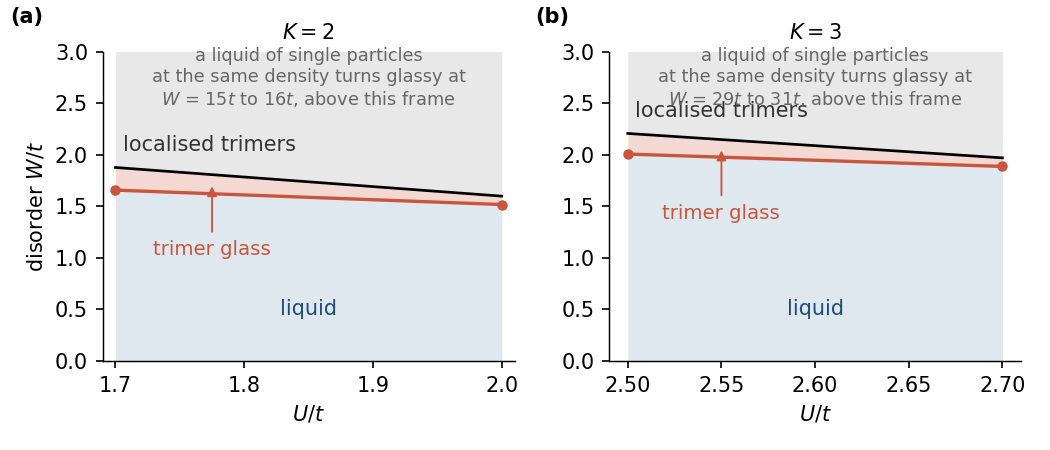
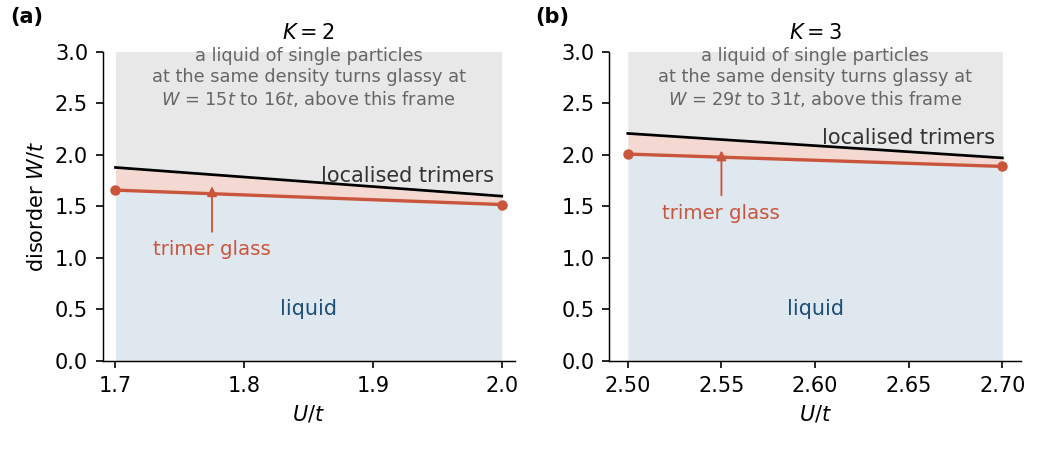
paper: fig. 7 region label at the right end

diff --git a/paper/fig5.py b/paper/fig5.py
@@ -24,7 +24,7 @@ for ax, K in zip(axes, (2, 3)):
     ax.set_ylim(0, 3.0)
     ax.text(um, 0.5, "liquid", fontsize=10, color=B, ha="center", va="center")
     ax.annotate("trimer glass", xy=(ul, 0.5 * (np.interp(ul, U, Wg) + np.interp(ul, U, Wc))), xytext=(ul, np.interp(ul, U, Wg) - 0.45), fontsize=9.5, color=R, ha="center", va="top", arrowprops=dict(arrowstyle="-|>", color=R, lw=0.9, shrinkB=1))
-    ax.text(U.min() + 0.02 * (U.max() - U.min()), Wc[0] + 0.12, "localised trimers", fontsize=10, color="#333333", ha="left", va="bottom")
+    ax.text(U.max() - 0.02 * (U.max() - U.min()), Wc[-1] + 0.1, "localised trimers", fontsize=10, color="#333333", ha="right", va="bottom")
     ax.text(um, 2.74, f"a liquid of single particles\nat the same density turns glassy at\n$W$ = {W1.min():.0f}$t$ to {W1.max():.0f}$t$, above this frame", fontsize=8.5, color="#666666", ha="center", va="center")
 axes[0].set_ylabel("disorder $W/t$")
 fig.tight_layout(w_pad=2.0); fig.text(0.01, 0.95, "(a)", fontsize=10, fontweight="bold"); fig.text(0.51, 0.95, "(b)", fontsize=10, fontweight="bold"); fig.savefig("fig5.pdf"); fig.savefig("fig5.png", dpi=150)
